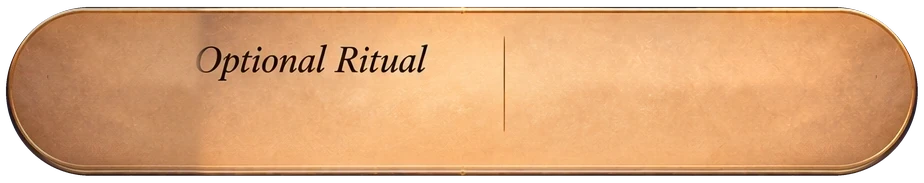
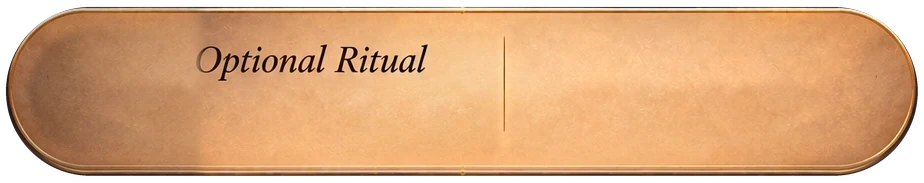
Sky pages: fixed cards again, one size and tall enough for their words, redrawn with true round ends at that height, spread evenly with no scrolling and no arrows; the ritual card's parchment evened out (no stain)

Changed region(s): [[0.0303, 0.1913, 0.1212, 0.7923]]

diff --git a/public/app.js b/public/app.js
@@ -3553,47 +3553,32 @@ const SPH=[1744,1984,2240],SKT=[[49,924,70],[49,924,64],[49,924,66]],SKL=185,SKX
 // each page's icons for the cards [file prefix, [w,h] each], set in the middle of the card's round end
 const SKI={moon:['moon',[[139,108],[123,121],[126,94]]],sun:['sun',[[166,96],[156,154],[136,96]]],pl:['pl',[[130,95],[128,122],[126,105]]]};
 const skHead=(title,sub)=>`${tx('sk-t',182,138,660,98,title,82)}${tx('sk-k',112,252,800,34,sub,25)}`;
-// the four cards: one size (the ritual card's), each with an arrow on its right that opens it to read the rest
-const SKA='<button class="spa" aria-label="Read more"><svg viewBox="0 0 40 40" aria-hidden="true"><path d="M13 16l7 8 7-8"/></svg></button>';
+// the four cards: one size, tall enough for their words, round at both ends, spread evenly down the screen
+const SKC=250;
 function spCards(n,bodies,rit){
- const [f,ics]=SKI[n],o=V.spo||{};
- return `${[0,1,2].map(k=>{const [x,w,T]=SKT[k],[iw,ih]=ics[k];
-  return `<div class="spc${o[k]?' open':''}" data-k="${k}" style="left:${x}px;top:0;width:${w}px;height:${SKRH}px;border-width:${T}px 0 30px 0;border-image:url(${SKY}sp-moon-t${k}.webp) ${T} 0 30 0 fill stretch;background:url(${SKY}sp-moon-m${k}.webp) 0 ${T}px/100% calc(100% - ${T+30}px) no-repeat;background-origin:border-box;background-clip:border-box">
-   <img class="spi" src="${SKY}sp-${f}-i${k}.webp" alt="" style="left:${110-iw/2}px;width:${iw}px;height:${ih}px">
-   <div class="spx sp-b${k===2?' sp-l':''}" style="left:${SKX}px;top:-2px;width:${w-SKX-70}px">${bodies[k]}</div>${SKA}</div>`}).join('')}
-  <div class="spc spr${o[3]?' open':''}" data-k="3" style="left:49px;top:0;width:924px;height:${SKRH}px;border-width:100px 0 30px 0;border-image:url(${SKY}sp-rit-card.webp) 100 0 30 0 fill stretch;background:url(${SKY}sp-rit-mid.webp) 0 90px/100% calc(100% - 115px) no-repeat;background-origin:border-box;background-clip:border-box">
-   <img class="spi" src="${SKY}sp-rit-bowl.webp" alt="" style="left:48px;width:124px;height:149px">${rit}${SKA}</div>`;
+ const [f,ics]=SKI[n];
+ return `${[0,1,2].map(k=>{const [iw,ih]=ics[k];
+  return `<div class="spc" data-k="${k}" style="left:49px;top:0;width:924px;height:${SKC}px;background-image:url(${SKY}sp-c${k}.webp)">
+   <img class="spi" src="${SKY}sp-${f}-i${k}.webp" alt="" style="left:${110-iw/2}px;top:${SKC/2-ih/2+14}px;width:${iw}px;height:${ih}px">
+   ${tx('sp-b'+(k===2?' sp-l':''),SKX,74,672,SKC-74-30,bodies[k],k===2?35:36)}</div>`}).join('')}
+  <div class="spc spr" data-k="3" style="left:49px;top:0;width:924px;height:${SKC}px;background-image:url(${SKY}sp-c3.webp)">
+   <img class="spi" src="${SKY}sp-rit-bowl.webp" alt="" style="left:44px;top:${SKC/2-60}px;width:120px;height:144px">${rit}</div>`;
 }
-const skRit=(name,desc)=>`${tx('sp-rn',186,-14,316,52,name,32)}<div class="spx sp-rd">${desc}</div>`;
-// lay a page out for this screen: the painting nearest its shape; the cards one size, an opened card as tall as its words;
-// on the Moon and Sun the cards start beneath the painted Moon or Sun, on a planet they rest above the Earth's horizon and the
-// planet fills the room above; if opened cards need more room than the screen, the cards scroll over the painting
+const skRit=(name,desc)=>`${tx('sp-rn',182,96,330,60,name,33)}${tx('sp-rd',566,22,330,SKC-44,desc,32)}`;
 function skLay(t,n,sc,hr,H){
  const ch=SPH.reduce((a,b)=>Math.abs(Math.log(b/hr))<Math.abs(Math.log(a/hr))?b:a),sy=H/ch,k=sy/sc;
  t.style.setProperty('--img',`url(${SKY}${n==='pl'?'pl-bg':'sp-'+n}-${ch}.webp)`);
- const cards=[...t.querySelectorAll('.spc')],gap=14;
- const hh=cards.map((c,i)=>{const T=i<3?SKT[i][2]:100,b=c.querySelector(i<3?'.sp-b':'.sp-rd');if(!b)return SKRH;
-  b.style.height='';const full=b.scrollHeight,room=SKRH-T-30;c.classList.toggle('more',full>room+2);
-  const h=c.classList.contains('open')?Math.max(SKRH,T+full+30+(i<3?0:-56)):SKRH;b.style.height=(i<3?h-T-30:h-100+56)+'px';return h});
- const cs0=4*SKRH+3*gap,top0=n==='pl'?300*k:642*k,bottom=hr*(n==='pl'?.9:.965),room=bottom-top0;
- const fs=Math.min(1,(n==='pl'?room-360:room)/cs0);
- let y=n==='pl'?bottom-cs0*fs:top0+Math.max(8,Math.min(30,(room-cs0)*.12));
- cards.forEach((c,i)=>{c.style.top=y+'px';c.style.height=hh[i]+'px';c.style.transform=fs<1?`scale(${fs})`:'';
-  const im=c.querySelector('.spi'),T=i<3?SKT[i][2]:100;if(im)im.style.top=(SKRH/2-parseFloat(im.style.height)/2-T)+'px';
-  y+=(hh[i]+gap)*fs});
- const lay=t.querySelector('.spl');if(lay)lay.style.height=Math.max(hr,y+40)+'px';
- if(n==='pl'){const Z=bottom-cs0*fs-gap-top0,cy=top0+Z/2,ph=Math.min(Z*1.02,590),cf=Math.min(1,Z/300);
+ const cards=[...t.querySelectorAll('.spc')],top0=n==='pl'?300*k:642*k,bottom=hr*(n==='pl'?.92:.965),room=bottom-top0;
+ let fs,gap,y;
+ if(n==='pl'){fs=Math.min(1,(room-380)/(4*SKC+3*16));gap=16*fs;y=bottom-(4*SKC*fs+3*gap)}
+ else{fs=Math.min(1,(room-5*12)/(4*SKC));gap=(room-4*SKC*fs)/5;y=top0+gap}
+ cards.forEach(c=>{c.style.top=y+'px';c.style.transform=fs<1?`scale(${fs})`:'';y+=SKC*fs+gap});
+ if(n==='pl'){const Z=bottom-(4*SKC*fs+3*gap)-14-top0,cy=top0+Z/2,ph=Math.min(Z*1.02,600),cf=Math.min(1,Z/300);
   const p=t.querySelector('.plp');if(p){const r=+p.dataset.r,h=r>1?Math.min(ph*.7,700/r):ph,w=h*r;p.style.cssText=`left:${512-w/2}px;top:${cy-h/2}px;width:${w}px;height:${h}px`}
   const g=t.querySelector('.plg');if(g){const s=Math.min(ph*.24,130);g.style.cssText=`left:${512-s/2}px;top:${cy-s/2}px;width:${s}px;height:${s}px`}
   t.querySelectorAll('.plx [data-cy]').forEach(e=>{e.style.top=(cy+ +e.dataset.cy*cf)+'px';e.style.transformOrigin='50% 0';e.style.transform=cf<1?`scale(${cf})`:''})}
  return {ch,th:ch,sy};
 }
-document.addEventListener('click',e=>{
- if(V.sec!=='horoscope'||!V.skp)return;
- const c=e.target.closest('#rov .spc');if(!c||!c.classList.contains('more')&&!c.classList.contains('open'))return;
- const k=+c.dataset.k;V.spo=Object.assign({},V.spo);V.spo[k]=!V.spo[k];c.classList.toggle('open',!!V.spo[k]);
- const b=c.querySelector('.spa');if(b)b.setAttribute('aria-label',V.spo[k]?'Show less':'Read more');fit();
-});
 function moonPop(){
  const now=new Date(),m=K.moon(now),si=sIdx(m.sign),r=skyRel(m.sign),ph=MPH[m.name],[l1,l2]=m.name.split(' ');
  const nx=(K.lunarPhases(now,new Date(+now+40*DAY))||[]).find(e=>e.date>now&&!(m.name.startsWith(e.name.replace(' Moon','').split(' ')[0])&&m.name.includes(e.name.split(' ')[0])&&+e.date-now<4*DAY)),nn=nx?nx.name.replace(' Moon','').replace('New','New Moon').replace('Full','Full Moon'):'';

diff --git a/public/ritual.css b/public/ritual.css
@@ -220,19 +220,9 @@ body:has(.sky0) .toast{bottom:calc(var(--rnh,80px) + env(safe-area-inset-bottom,
 #app #rsg .sg-row i{align-self:stretch;background:linear-gradient(transparent,rgba(120,74,30,.55) 20%,rgba(120,74,30,.55) 80%,transparent)}
 #app #rsg .sg-l{font:600 29px/1.2 'Cinzel',Georgia,serif;letter-spacing:.28em;color:#241508;margin-bottom:8px}
 #app #rsg .sg-x{font:italic 500 39px/1.3 'Cormorant Garamond',serif}
-/* the cards: one size, an arrow to open each; opened cards scroll over the painting */
-#app .spw{position:absolute;inset:0;z-index:3;overflow-y:auto;overflow-x:hidden;overscroll-behavior:contain;scrollbar-width:none;pointer-events:none;-webkit-overflow-scrolling:touch}
-#app .spw::-webkit-scrollbar{display:none}
-#app .spw .spl{pointer-events:none}
-#app .spw .spc{pointer-events:auto}
-#app .spc .sp-b{display:block!important;overflow:hidden;font-size:36px!important;line-height:1.2}
-#app .spc .sp-b.sp-l{font-size:35px!important}
-#app .spc.more:not(.open) .sp-b,#app .spc.more:not(.open) .sp-rd{-webkit-mask:linear-gradient(#000 55%,transparent);mask:linear-gradient(#000 55%,transparent)}
-#app .spc.spr .sp-rd{left:528px;top:-86px;width:322px;font-size:32px;line-height:1.2;overflow:hidden;display:block;color:#21150a;font-style:italic;font-weight:600}
-#app .spa{position:absolute;right:28px;top:calc(50% - 24px);width:48px;height:48px;display:none;place-items:center;border:0;background:none;padding:0;cursor:pointer}
-#app .spc.spr .spa{top:-58px}
-#app .spc.more .spa,#app .spc.open .spa{display:grid}
-#app .spa svg{width:40px;height:40px;fill:none;stroke:#E9C987;stroke-width:3;stroke-linecap:round;stroke-linejoin:round;transition:transform .35s;filter:drop-shadow(0 0 4px rgba(240,190,90,.6))}
-#app .spc.spr .spa svg{stroke:#5a3612;filter:none}
-#app .spc.open .spa svg{transform:rotate(180deg)}
-#app .spc{cursor:pointer}
+/* the cards: fixed, one size, evenly spread */
+#app .spw{position:absolute;inset:0;z-index:3;overflow:hidden;pointer-events:none}
+#app .spw .spc{pointer-events:auto;background-size:100% 100%;background-repeat:no-repeat;border:0!important;transform-origin:50% 0}
+#app .spc .sp-b{display:flex!important;flex-direction:column;justify-content:center;line-height:1.2}
+#app .spc .sp-rd{color:#21150a;font-style:italic;font-weight:600;line-height:1.18;display:flex;align-items:center;text-shadow:none}
+#app .spc .sp-rn{color:#1c1108;font-weight:500;display:flex;align-items:center;justify-content:center;text-align:center;text-shadow:none;line-height:1.1}
